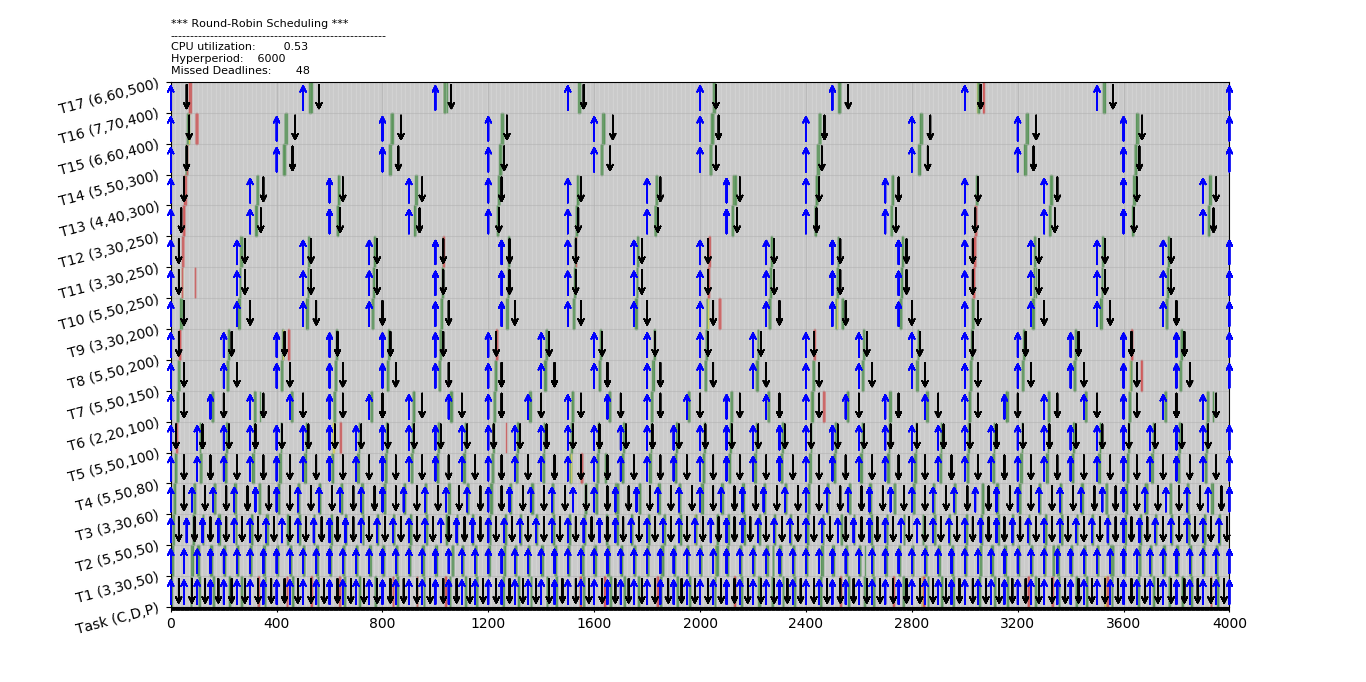
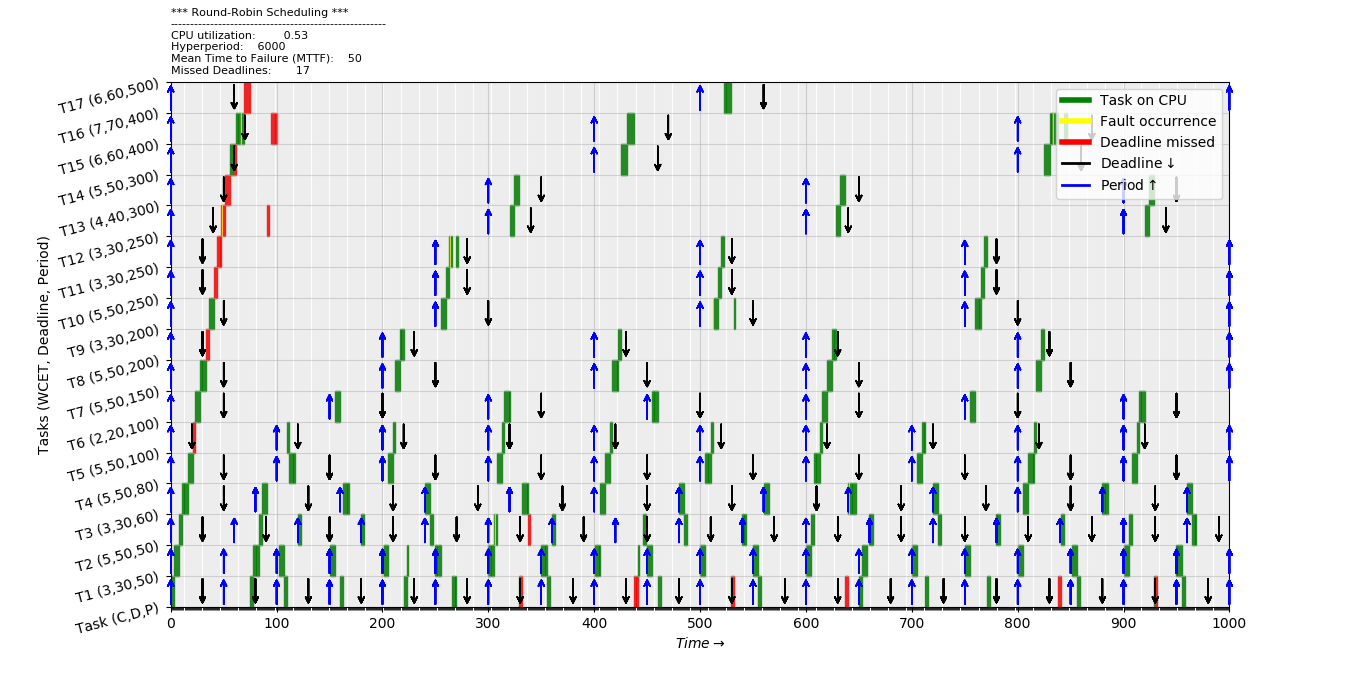
Add legends for RR and MM

diff --git a/DMFT/Schedule/DM/DeadlineMonotonic.py b/DMFT/Schedule/DM/DeadlineMonotonic.py
@@ -19,6 +19,8 @@ import matplotlib.pyplot as plt
 import numpy as np
 from collections import OrderedDict
 import fractions
+from matplotlib.lines import Line2D
+
 #===============================================================================
 # Global variable and Constants
 #===============================================================================
@@ -297,14 +299,23 @@ if __name__ == '__main__':
 
     plt.xlim(0,RUNTIME)
     plt.ylim(0,len(taskList))
-         
+    ax.set_xlabel(r'$Time\rightarrow$', fontsize='medium')
+    ax.set_ylabel('Tasks (WCET, Deadline, Period)', fontsize='medium')
     textStr = "*** Deadline Monotonic Scheduling ***\n"
     textStr += "------------------------------------------------------\n"
     #textStr += task_table(taskList)
     textStr += "CPU utilization:\t{:.2f}\n".format(util)
     #textStr+= r'$Average\ Task\ Utilization\ \alpha: {}$'.format(util / len(taskList)) + "\n"
-    textStr += "Hyperperiod:\t{}\n".format(hyperperiod)    
+    textStr += "Hyperperiod:\t{}\n".format(hyperperiod)
+    textStr += "Mean Time to Failure (MTTF):\t{}\n".format(MTTF)
     textStr += "Missed Deadlines: \t{}".format(missedDeadlines)
     textStr = textStr.expandtabs()
     plt.title(textStr,fontdict={'fontsize': 8, 'fontweight': 'medium'},loc='left')
+    legend_elements = [Line2D([0], [0], color='green', lw=4, label='Task on CPU'),
+                       Line2D([0], [0], color='yellow', lw=4, label='Fault occurrence'),
+                       Line2D([0], [0], color='red', lw=4, label='Deadline missed'),    
+                       Line2D([0], [0], color='k', lw=2, label=r'Deadline$\downarrow$'),
+                       Line2D([0], [0], color='blue', lw=2, label=r'Period$\uparrow$')]
+    ax.legend(handles=legend_elements, loc='best')
+    
     plt.show()

diff --git a/DMFT/Schedule/RR/RoundRobin.py b/DMFT/Schedule/RR/RoundRobin.py
@@ -20,6 +20,8 @@ from collections import OrderedDict
 import matplotlib.pyplot as plt
 import numpy as np
 import random
+from matplotlib.lines import Line2D
+
 #===============================================================================
 # Global variable and Constants
 #===============================================================================
@@ -341,14 +343,24 @@ if __name__ == '__main__':
 
     plt.xlim(0,RUNTIME)
     plt.ylim(0,len(taskList))
-         
+    ax.set_xlabel(r'$Time\rightarrow$', fontsize='medium')
+    ax.set_ylabel('Tasks (WCET, Deadline, Period)', fontsize='medium')
+
     textStr = "*** Round-Robin Scheduling ***\n"
     textStr += "------------------------------------------------------\n"
     #textStr += task_table(taskList)
     textStr += "CPU utilization:\t{:.2f}\n".format(util)
     #textStr+= r'$Average\ Task\ Utilization\ \alpha: {}$'.format(util / len(taskList)) + "\n"
-    textStr += "Hyperperiod:\t{}\n".format(hyperperiod)    
+    textStr += "Hyperperiod:\t{}\n".format(hyperperiod)
+    textStr += "Mean Time to Failure (MTTF):\t{}\n".format(MTTF)
     textStr += "Missed Deadlines: \t{}".format(missedDeadlines)
     textStr = textStr.expandtabs()
     plt.title(textStr,fontdict={'fontsize': 8, 'fontweight': 'medium'},loc='left')
+    legend_elements = [Line2D([0], [0], color='green', lw=4, label='Task on CPU'),
+                       Line2D([0], [0], color='yellow', lw=4, label='Fault occurrence'),
+                       Line2D([0], [0], color='red', lw=4, label='Deadline missed'),    
+                       Line2D([0], [0], color='k', lw=2, label=r'Deadline$\downarrow$'),
+                       Line2D([0], [0], color='blue', lw=2, label=r'Period$\uparrow$')]
+    ax.legend(handles=legend_elements, loc='best')
+    
     plt.show()
